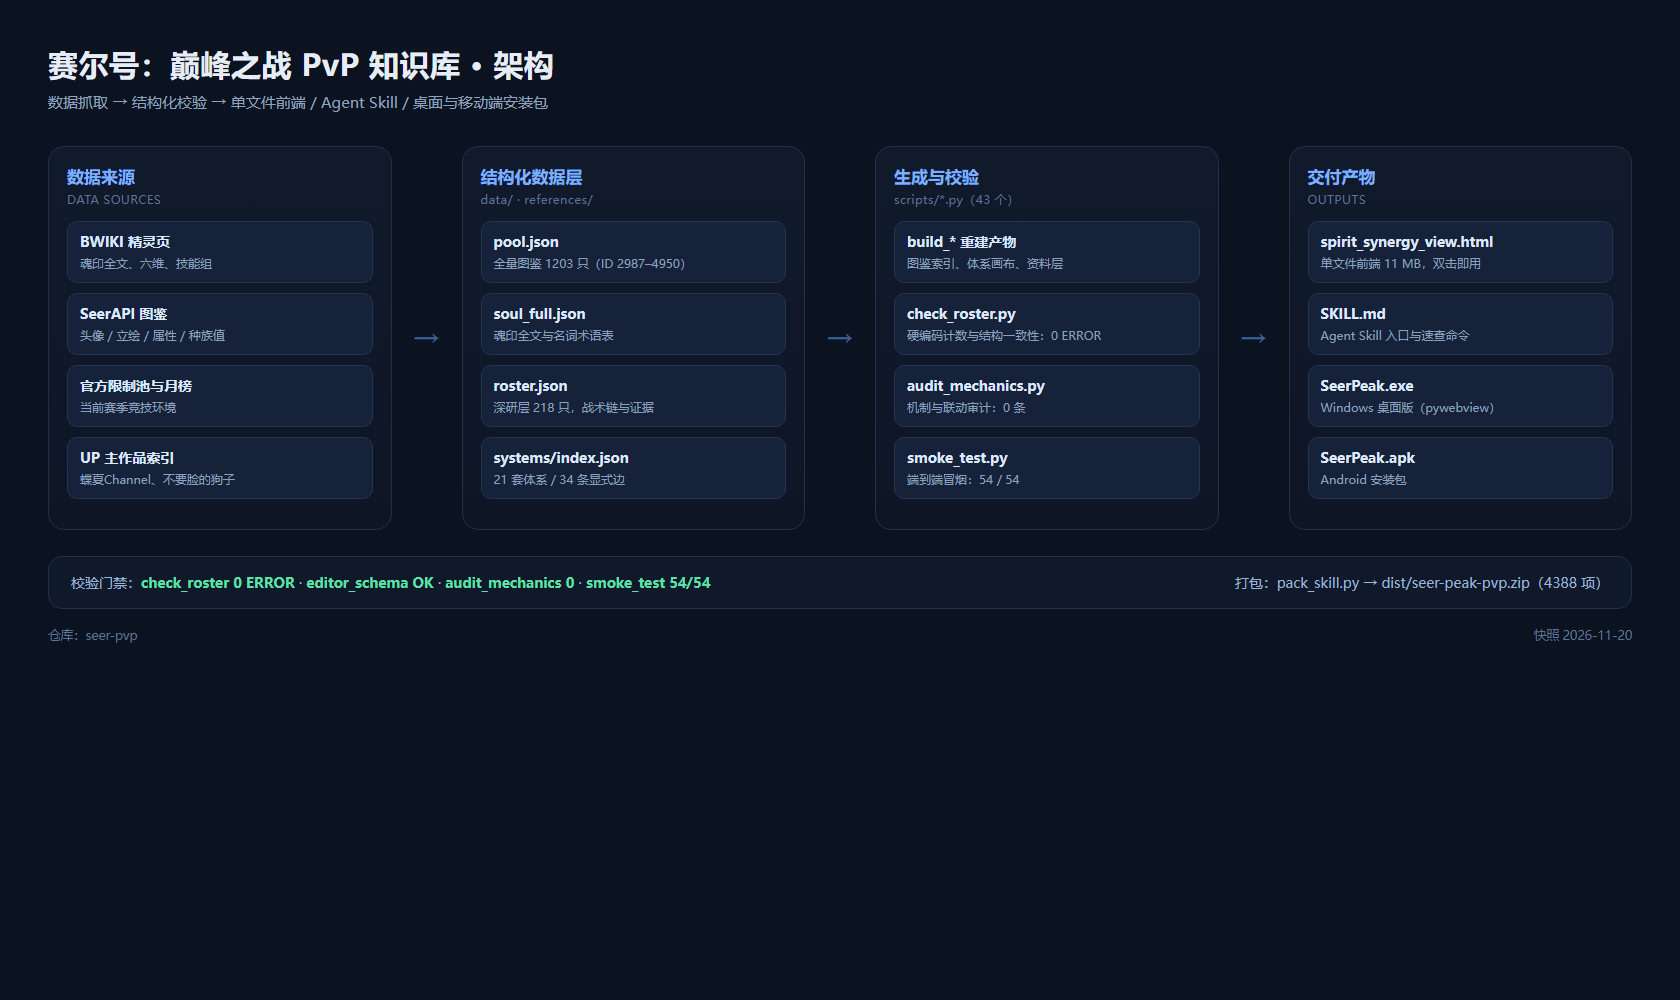
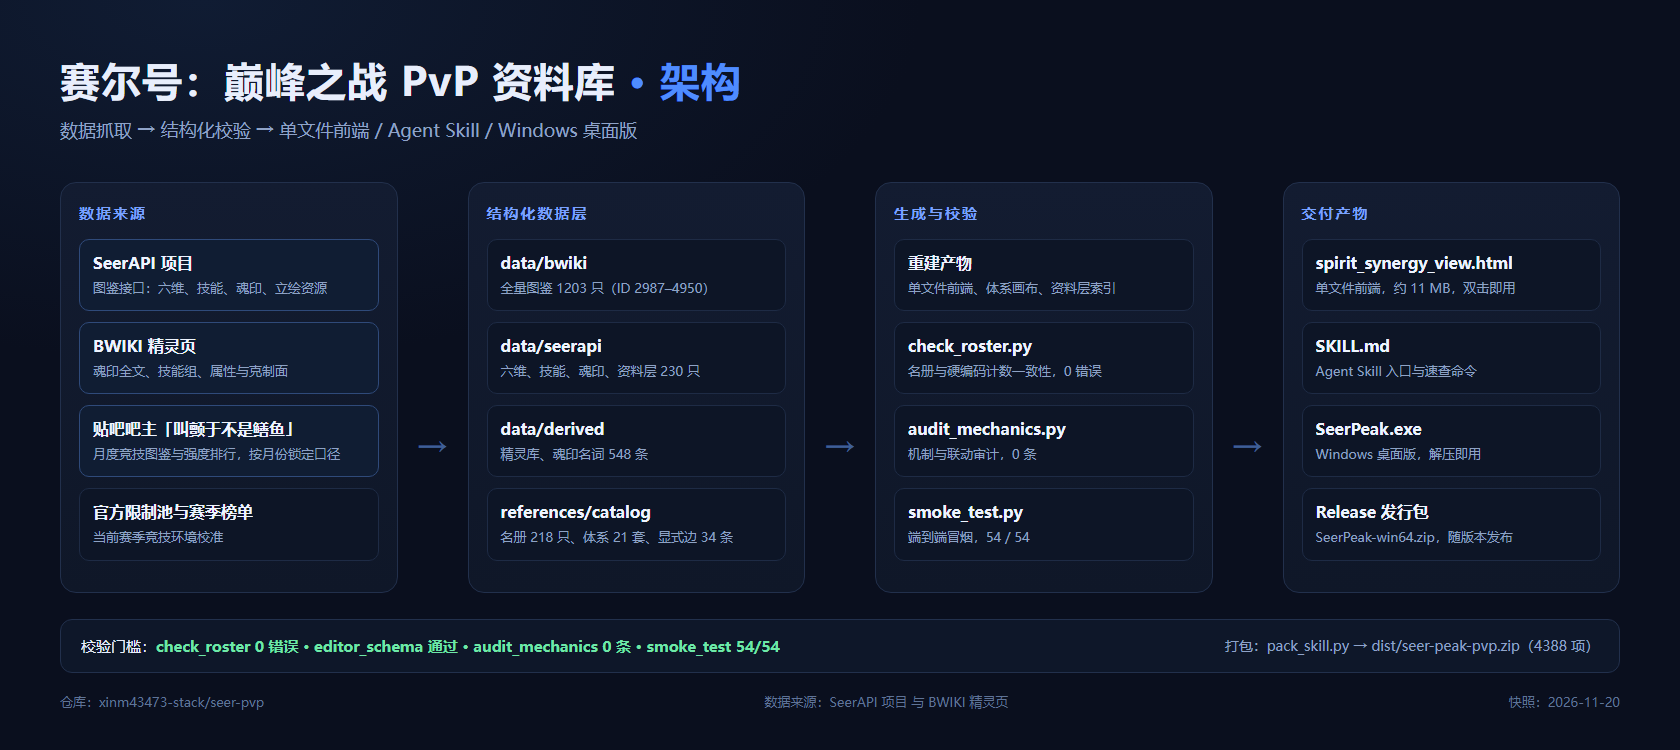
docs: 移除手机版说明，数据来源改为 SeerAPI 项目、BWIKI 与贴吧吧主鳝鱼强度排行

diff --git a/README.md b/README.md
@@ -13,7 +13,7 @@
 - **体系画布**：21 套已登记体系、34 条显式联动边、24 条双向互证联动声明，用画布展示精灵之间的出场顺序与联动条件。
 - **完全离线**：前端是单个 HTML 文件（约 11 MB），数据全部内联，双击即可打开，不依赖服务器与网络。
 - **可编辑**：内置编辑器，可修改精灵资料、备注、技能与体系，支持导出/导入体系文件。
-- **多端**：Windows 桌面版（exe）、Android 安装包（APK，构建脚本在仓库内）。
+- **桌面版**：Windows 桌面程序（exe），双击启动，同一份前端也可用浏览器直接打开。
 
 ## 界面预览
 
@@ -29,19 +29,13 @@
 
 ![体系画布](docs/images/ui-systems.png)
 
-### 手机版
-
-窄屏自动切换为头像卡片墙，点开进入图鉴详情。
-
-![手机版](docs/images/ui-mobile.png)
-
 ### 整体架构
 
 ![架构图](docs/images/architecture.png)
 
 ## 下载与使用
 
-### Windows 桌面版（推荐）
+### Windows 桌面版
 
 1. 打开 [Releases 页面](https://github.com/xinm43473-stack/seer-pvp/releases/latest)，下载 `SeerPeak-win64.zip`（约 96 MB）。
 2. 解压到任意目录。
@@ -66,10 +60,6 @@ SeerPeak/
 
 前端是单文件 HTML，构建后在 `references/spirit_synergy_view.html`，用浏览器直接打开即可。图片资源按相对路径读取 `assets/`，若本地缺失会回退到 SeerAPI 静态资源仓库的在线地址。
 
-### Android 版
-
-构建脚本位于 `desktop/android/build_apk.py`，产物为 `dist/SeerPeak.apk`。该安装包体积较大（约 83 MB），未随仓库分发，可自行构建。
-
 ## 功能说明
 
 | 功能 | 说明 |
@@ -83,7 +73,6 @@ SeerPeak/
 | 编辑器 | 编辑精灵、定位、魂印、备注、技能，支持导出体系 JSON |
 | 全量拉取 | 从 SeerAPI 拉取最新魂印与种族值，写入覆盖层，不破坏人工数据 |
 | 主题 | 深色 / 浅色主题，跟随系统并记忆选择 |
-| 移动端 | 窄屏下切换为卡片墙 + 详情两页布局 |
 
 ## 仓库结构
 
@@ -103,7 +92,6 @@ seer-pvp/
 ├── scripts/                    # Python 数据构建、抓取、校验脚本
 ├── desktop/
 │   ├── exe/                    # Windows 桌面版：启动器与打包脚本
-│   ├── android/                # Android 版构建脚本
 │   └── tools/                  # 构建工具链安装脚本
 ├── release/                    # 发行包：SeerPeak-win64.zip
 └── docs/images/                # 本文档用图
@@ -115,7 +103,6 @@ seer-pvp/
 
 - Python 3.10 及以上
 - 构建桌面版需要 `pywebview` 与 `pyinstaller`，可用脚本一键安装：`pwsh desktop/tools/install_toolchain.ps1`
-- 构建 Android 版需要 JDK、Android SDK build-tools 与 apksigner
 
 ### 重建前端
 
@@ -132,12 +119,6 @@ pwsh desktop\exe\build_exe.ps1
 ```
 
 产物在 `dist/desktop/SeerPeak/`。打包脚本会自动探测工具链目录（`D:\ruanjianmen\dabao\venv-exe`、`E:\seerskill\.buildtools\venv-exe` 或项目内 `.buildtools\venv-exe`）。
-
-### 打包 Android 版
-
-```powershell
-python desktop\android\build_apk.py
-```
 
 ### 校验（提交前必须全绿）
 
@@ -161,7 +142,7 @@ python scripts\smoke_test.py        # 端到端冒烟，要求 54/54
 | 种族值 | 4951 条 |
 | 魂印名词 | 548 条 |
 
-数据来源包括 BWIKI 精灵页、SeerAPI 图鉴接口、官方限制池与赛季榜单，以及两位攻略作者（蝶夏Channel、不要脸的狗子）的作品索引。收录标准以作品覆盖为准，不以魂印条数或自动评分判断；详细口径见 `SKILL.md` 与 `references/docs/`。
+数据来源为 **SeerAPI 开源项目**与 **BWIKI 精灵页**：图鉴、魂印全文、六维、技能与克制面均取自这两处。精灵的强度分级参考百度贴吧吧主「叫颤于不是鳝鱼」的月度竞技图鉴与强度排行，并用官方限制池与赛季榜单校准。收录以可复核的图鉴原文与实战记录为准，不以魂印条数或自动评分判断；详细口径见 `SKILL.md` 与 `references/docs/`。
 
 ## 免责声明
 
